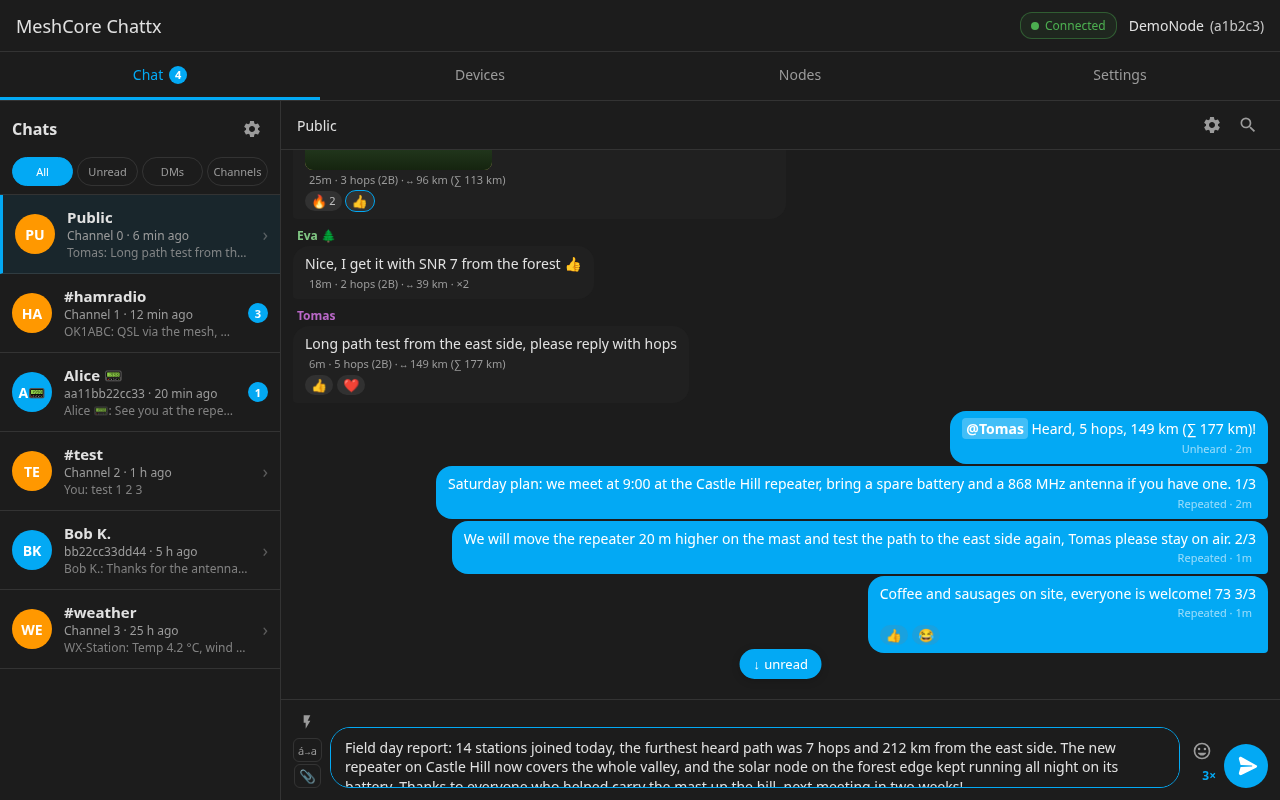
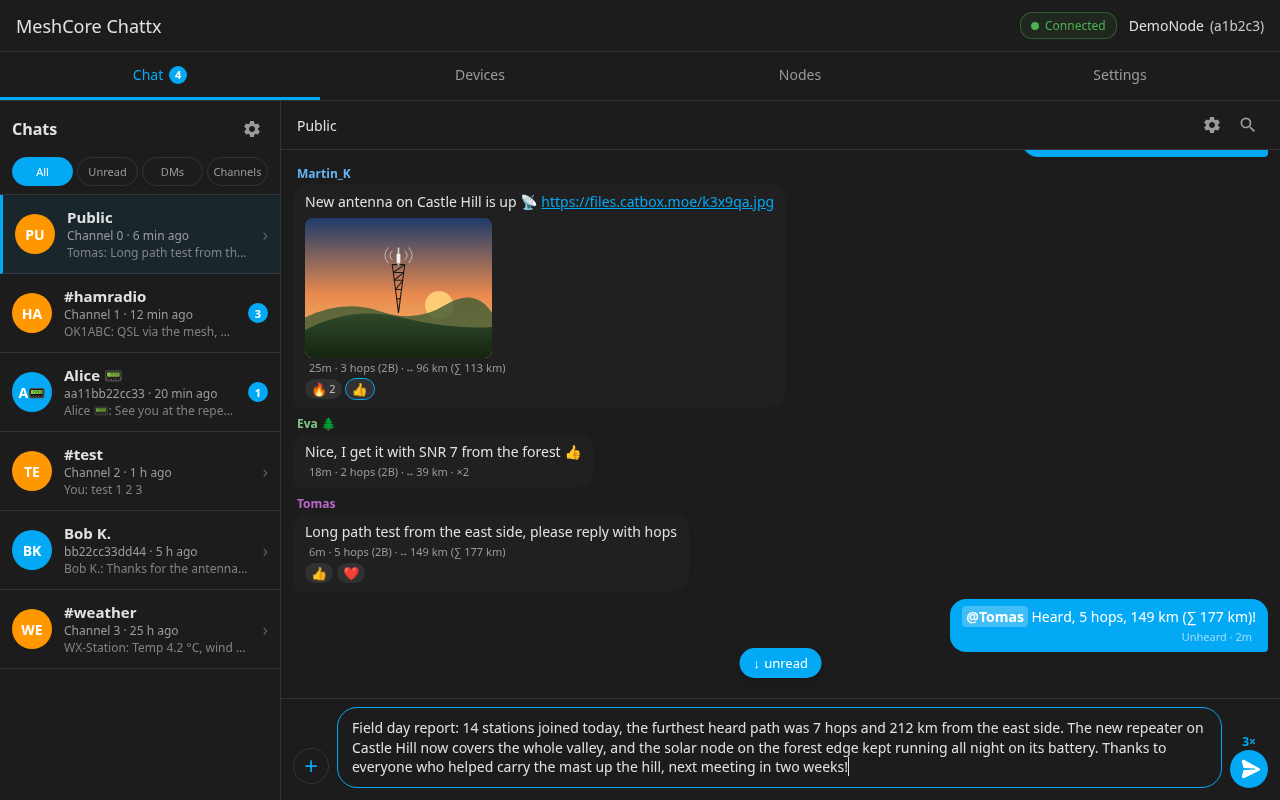
New screenshots: composer with and without the + strip, @ suggestions

diff --git a/README.md b/README.md
@@ -24,7 +24,8 @@
 | **Images and links** | – | ✅ **Paste an image, it is uploaded and shown in the conversation; links are clickable** |
 | **Bytes left in a message** | – | ✅ **Counter in UTF-8 bytes, as the radio counts** |
 | **Send without diacritics** | – | ✅ **One-tap switch** |
-| **Emoji and quick messages** | – | ✅ **Pickers next to the message field** |
+| **Emoji and quick messages** | – | ✅ **Behind + next to the message field, with image and location** |
+| **Mentions** | – | ✅ **Name suggestions after "@"** |
 | **Hop information** | In the message dialog | ✅ **Hop count and path size on each message** |
 | **Conversation list** | Contact ID or channel number | ✅ **Readable initials, newest first, age of the last message, IDs can be hidden** |
 | **Language** | English | ✅ **19 languages, automatic or chosen in Settings, easy to correct on GitHub** |
@@ -80,6 +81,9 @@ These features were built by [Michal Šiman](https://github.com/michalsiman) ([O
 
 **Writing messages**
 
+- A small composer: +, the message field and Send with the bytes left above it; + opens a strip with quick messages, without diacritics, image, location and emoji
+- Name suggestions after "@": the radio's contacts and everyone who wrote in the open conversation; Enter or Tab inserts "@[Name] "
+- Send a location with 📍: the radio's position, Home Assistant's home or a place picked on the map; received locations open on the map
 - Bytes-left counter that counts in UTF-8 bytes, as the radio does
 - A message too long for one is sent in numbered parts ("… 1/3", "… 2/3", "… 3/3"), at most 5, a few seconds apart; the counter shows how many, for example "3×"
 - Emoji reactions on messages (👍 ❤ 😂 😮 😢 🙏 in the message dialog), in the MeshCore One format, so they work with MeshCore One, MeshCore Open and KiekR
@@ -147,11 +151,27 @@ These use demo data, and the names and values are made up.
 </tr>
 <tr>
 <td><a href="https://raw.githubusercontent.com/michalsiman/meshcore-ha-chattx/main/assets/screenshots/chattx-reactions.png"><img src="https://raw.githubusercontent.com/michalsiman/meshcore-ha-chattx/main/assets/screenshots/chattx-reactions.png" alt="Quick reactions in the message dialog"></a></td>
-<td><a href="https://raw.githubusercontent.com/michalsiman/meshcore-ha-chattx/main/assets/screenshots/chattx-composer.png"><img src="https://raw.githubusercontent.com/michalsiman/meshcore-ha-chattx/main/assets/screenshots/chattx-composer.png" alt="Emoji picker, bytes-left counter and diacritics switch"></a></td>
+<td><a href="https://raw.githubusercontent.com/michalsiman/meshcore-ha-chattx/main/assets/screenshots/chattx-mentions.png"><img src="https://raw.githubusercontent.com/michalsiman/meshcore-ha-chattx/main/assets/screenshots/chattx-mentions.png" alt="Name suggestions after @"></a></td>
 </tr>
 <tr>
 <td><b>Reactions</b> — pick an emoji in the message dialog; reactions show as chips under the message and the dialog lists who reacted. Compatible with MeshCore One, MeshCore Open and KiekR.</td>
-<td><b>Writing</b> — quick messages and the diacritics switch on the left, emoji and bytes left on the right.</td>
+<td><b>"@" suggestions</b> — typing "@a" offers contacts and the people of the conversation; Enter, Tab or a tap inserts "@[Name] ".</td>
+</tr>
+<tr>
+<td><a href="https://raw.githubusercontent.com/michalsiman/meshcore-ha-chattx/main/assets/screenshots/chattx-composer-closed.png"><img src="https://raw.githubusercontent.com/michalsiman/meshcore-ha-chattx/main/assets/screenshots/chattx-composer-closed.png" alt="Composer with the + button closed"></a></td>
+<td><a href="https://raw.githubusercontent.com/michalsiman/meshcore-ha-chattx/main/assets/screenshots/chattx-composer.png"><img src="https://raw.githubusercontent.com/michalsiman/meshcore-ha-chattx/main/assets/screenshots/chattx-composer.png" alt="Composer with the + strip open"></a></td>
+</tr>
+<tr>
+<td><b>Composer</b> — one row: +, the message field (one line while empty, growing as you type) and Send with the bytes left above it.</td>
+<td><b>Behind +</b> — quick messages ⚡, without diacritics á→a, image 📎, location 📍 and emoji; a dot on + shows that "without diacritics" is on.</td>
+</tr>
+<tr>
+<td align="center"><a href="https://raw.githubusercontent.com/michalsiman/meshcore-ha-chattx/main/assets/screenshots/chattx-mobile-composer.png"><img src="https://raw.githubusercontent.com/michalsiman/meshcore-ha-chattx/main/assets/screenshots/chattx-mobile-composer.png" alt="Composer on a phone" width="260"></a></td>
+<td align="center"><a href="https://raw.githubusercontent.com/michalsiman/meshcore-ha-chattx/main/assets/screenshots/chattx-mobile-composer-tools.png"><img src="https://raw.githubusercontent.com/michalsiman/meshcore-ha-chattx/main/assets/screenshots/chattx-mobile-composer-tools.png" alt="Composer tools on a phone" width="260"></a></td>
+</tr>
+<tr>
+<td align="center"><b>Phone</b> — more of the conversation fits on the screen.</td>
+<td align="center"><b>Phone, + open</b> — the tools in one strip above the field.</td>
 </tr>
 <tr>
 <td><a href="https://raw.githubusercontent.com/michalsiman/meshcore-ha-chattx/main/assets/screenshots/chattx-image-upload.png"><img src="https://raw.githubusercontent.com/michalsiman/meshcore-ha-chattx/main/assets/screenshots/chattx-image-upload.png" alt="Dialog for sending an image"></a></td>
